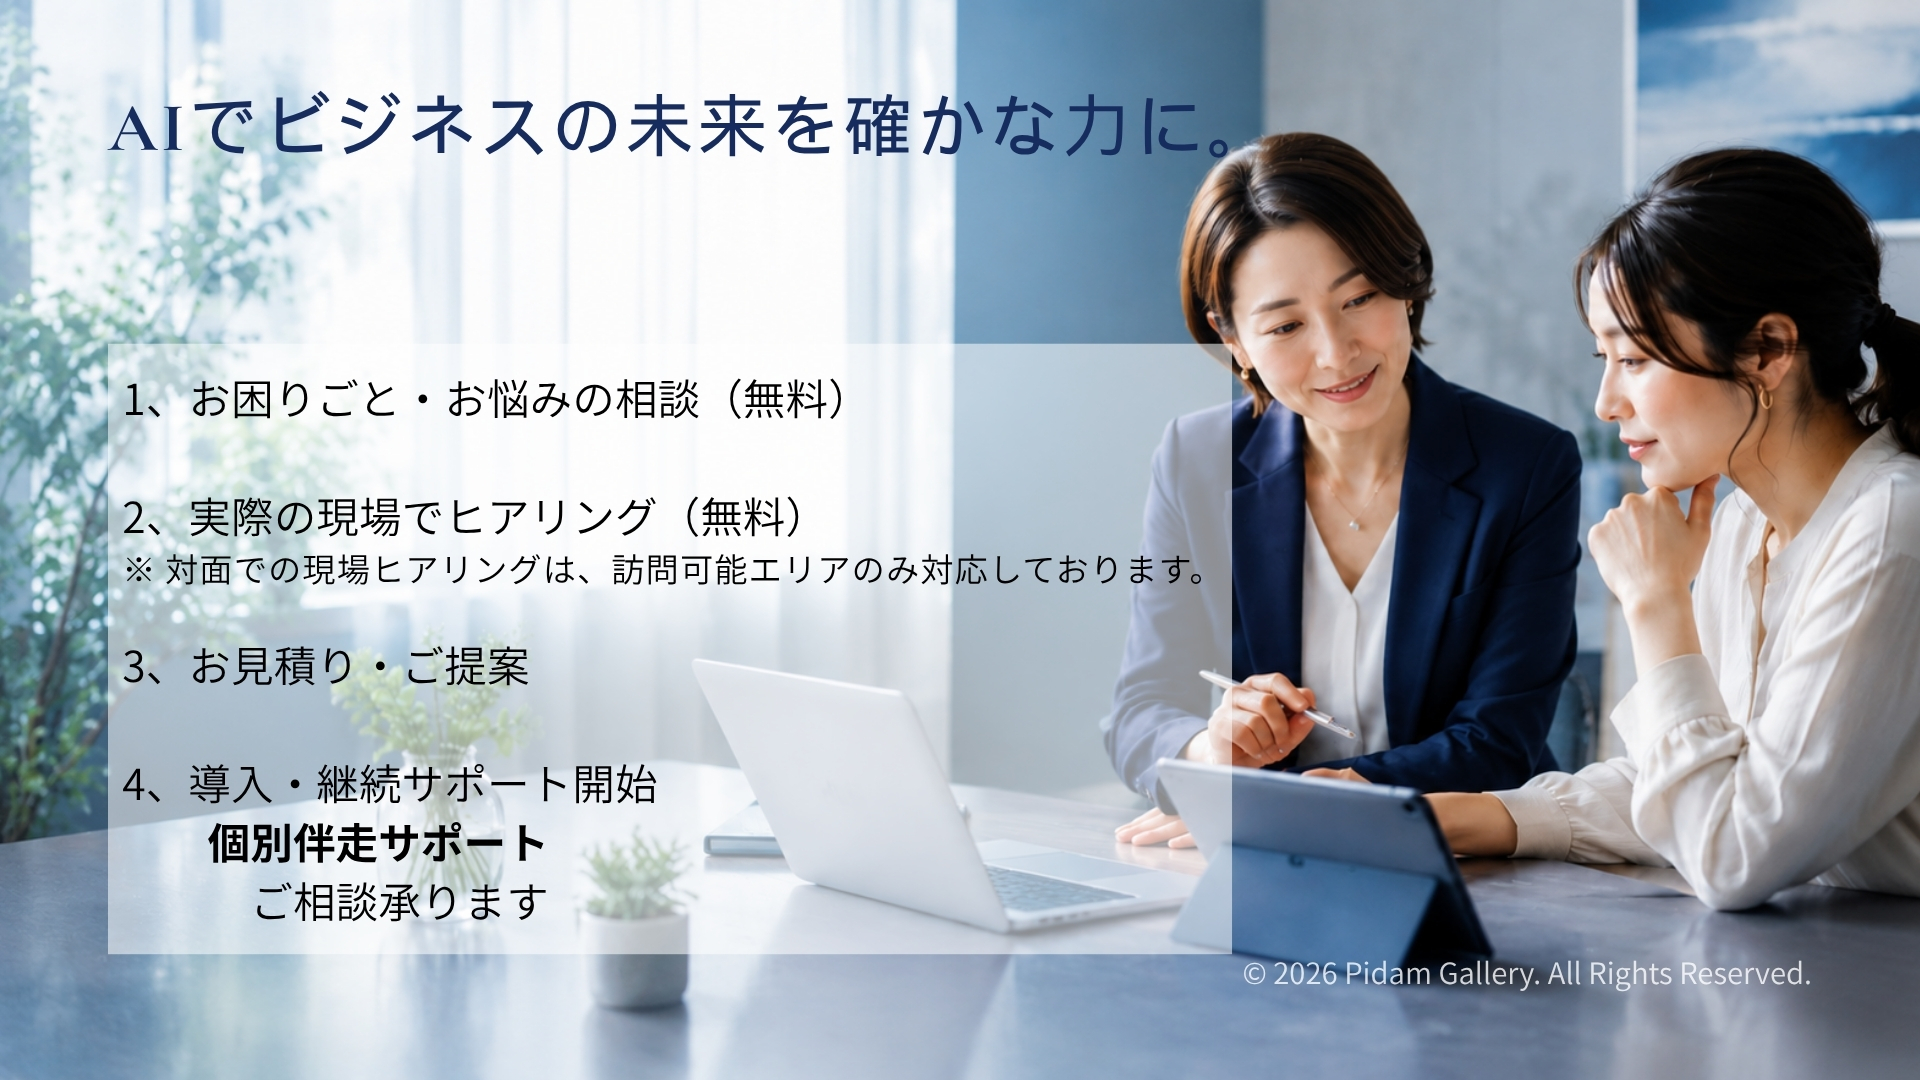
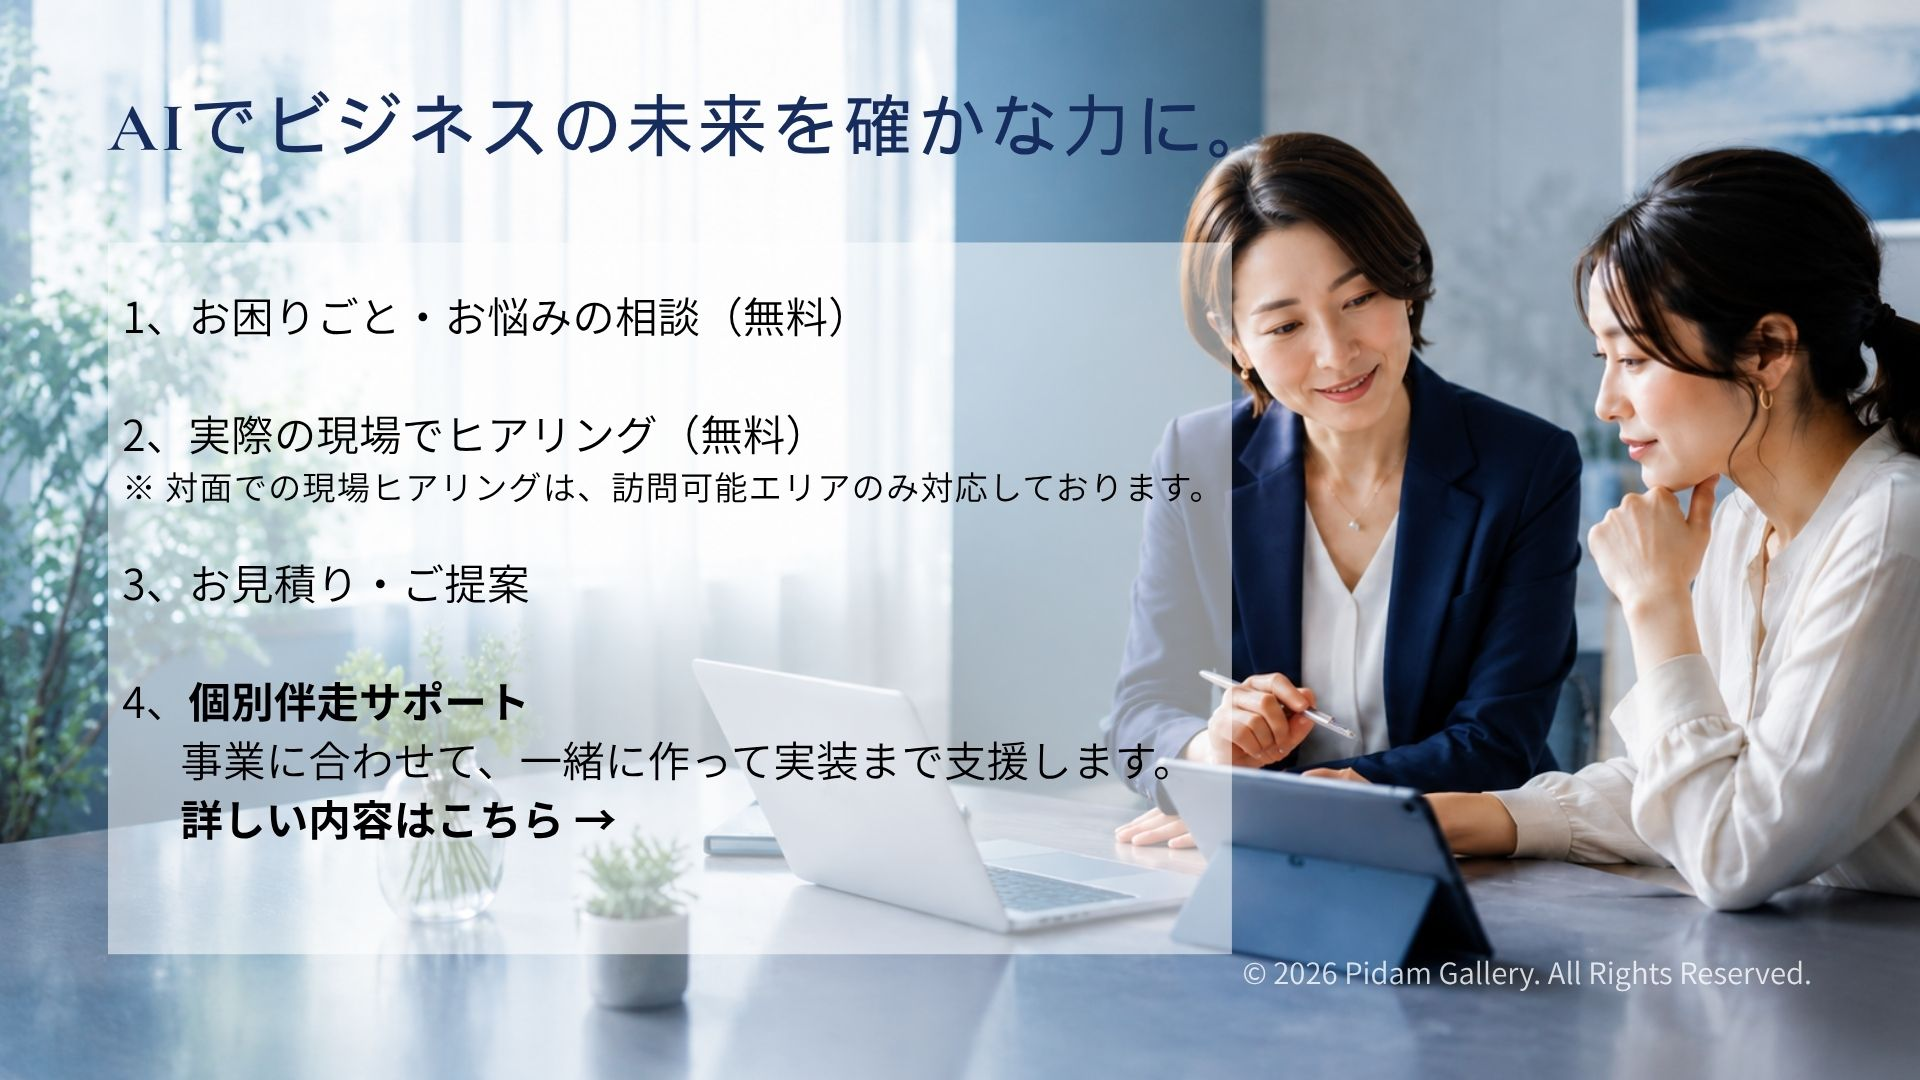
Update AI support service pages

Changed region(s): [[0.0312, 0.2139, 0.6562, 0.8556]]

diff --git a/support.html b/support.html
@@ -47,21 +47,47 @@
     }
     .btn-qr:hover { background: rgba(255,255,255,0.08); }
 
-    /* その他サポート: 画像に既にボタン枠があるため透明リンク */
-    .btn-other {
+    .service-menu {
       position: absolute;
-      display: block;
-      cursor: pointer;
-      border-radius: 9999px;
-      /* デバッグ: background: rgba(255,0,0,0.3); */
+      left: 8.5%;
+      top: 25%;
+      z-index: 2;
+      width: 38%;
+      height: 65%;
+      padding: 1.1%;
+      display: flex;
+      flex-direction: column;
+      gap: 0.6vw;
+      background: #051440;
+      border-radius: 1.3vw;
     }
-    .btn-other:hover { background: rgba(255,255,255,0.08); }
+    .service-menu a {
+      flex: 1;
+      display: flex;
+      flex-direction: column;
+      align-items: center;
+      justify-content: center;
+      color: #fff;
+      border: 2px solid rgba(255,255,255,0.92);
+      border-radius: 9999px;
+      text-align: center;
+      text-decoration: none;
+      font-family: "Yu Gothic", "Hiragino Kaku Gothic ProN", sans-serif;
+    }
+    .service-menu a:hover { background: rgba(255,255,255,0.1); }
+    .service-menu strong {
+      font-size: clamp(0.75rem, 1.55vw, 1.4rem);
+      font-weight: 500;
+      line-height: 1.15;
+    }
+    .service-menu span {
+      margin-top: 0.2em;
+      font-size: clamp(0.7rem, 1.15vw, 1rem);
+      line-height: 1.15;
+    }
 
     /* ボタン位置 (%) */
-    .btn-beginner { left: 10%; top: 28%; width: 25%; height: 8%; }  /* 初心者向け講座 */
-    .btn-houjin   { left: 10%; top: 58%; width: 25%; height: 8%; }  /* 法人向けサポート */
-    .btn-other    { left: 10%; top: 82%; width: 25%; height: 8%; }  /* その他サポート */
-    .btn-qr       { left: 51%; top: 74%; width: 7%;  height: 13%; } /* QRコード */
+    .btn-qr { left: 51%; top: 74%; width: 7%; height: 13%; } /* QRコード */
 
     /* トップへ戻る */
     .back-btn {
@@ -89,19 +115,29 @@
 
   <a class="back-btn" href="index.html">← トップへ</a>
 
-  <div class="page-wrapper">
+  <div class="page-wrapper" id="contact">
     <img class="bg" src="images/support.jpg" alt="AI Support - Pidam Gallery">
 
     <div class="overlay">
 
-      <!-- 初心者向け講座 -->
-      <a class="btn-link btn-beginner" href="beginner.html" aria-label="初心者向け講座"></a>
-
-      <!-- 法人向けサポート -->
-      <a class="btn-link btn-houjin" href="company.html" aria-label="法人向けサポート"></a>
-
-      <!-- その他サポート: 新規ページへ -->
-      <a class="btn-other" href="other_support.html" aria-label="その他サポート"></a>
+      <nav class="service-menu" aria-label="AIサポートメニュー">
+        <a href="beginner.html">
+          <strong>AI初心者講座</strong>
+          <span>複数人で基本を学ぶ</span>
+        </a>
+        <a href="beginner.html">
+          <strong>はじめてのAIサポート</strong>
+          <span>1対1で相談・練習</span>
+        </a>
+        <a href="company.html">
+          <strong>個別伴走サポート</strong>
+          <span>一緒に作って実装する</span>
+        </a>
+        <a href="other_support.html">
+          <strong>その他サポート</strong>
+          <span>画像・名刺・LPなどの制作相談</span>
+        </a>
+      </nav>
 
       <!-- QRコード（LINE相談）: リンク先を href="" に入れる -->
       <a class="btn-qr" href="" target="_blank" aria-label="LINE相談はこちら"></a>

diff --git a/company.html b/company.html
@@ -26,6 +26,40 @@
       display: block;
     }
 
+    .image-link {
+      position: absolute;
+      z-index: 3;
+      display: block;
+    }
+    .consultation-link {
+      left: 27%;
+      top: 87%;
+      width: 46%;
+      height: 10%;
+      border-radius: 9999px;
+    }
+    .consultation-link:hover { background: rgba(255,255,255,0.12); }
+    .email-consultation {
+      display: block;
+      padding: 0.7rem 1rem;
+      background: #eef4fb;
+      color: #0e55ad;
+      font-family: "Yu Gothic", "Hiragino Kaku Gothic ProN", sans-serif;
+      font-size: clamp(0.78rem, 1.05vw, 1rem);
+      font-weight: 700;
+      text-align: center;
+      text-decoration: none;
+    }
+    .email-consultation:hover { text-decoration: underline; }
+    .intro-detail-link {
+      left: 8.5%;
+      top: 74%;
+      width: 26%;
+      height: 8%;
+    }
+    .intro-detail-link:hover { background: rgba(255,255,255,0.12); }
+    .full-image-link { inset: 0; }
+
     .back-btn {
       position: fixed;
       top: 1.2rem;
@@ -53,7 +87,8 @@
 
   <!-- 1枚目: company.jpg -->
   <div class="page-block">
-    <img class="bg" src="images/company.jpg" alt="法人向けサポート 1 - Pidam Gallery">
+    <img class="bg" src="images/company.jpg" alt="個別伴走サポート 導入 - Pidam Gallery">
+    <a class="image-link intro-detail-link" href="#individual-support" aria-label="個別伴走サポートの詳しい内容はこちら"></a>
   </div>
 
   <!-- 2枚目: company2.jpg -->
@@ -62,8 +97,21 @@
   </div>
 
   <!-- 3枚目: company3.jpg -->
+  <div class="page-block" id="individual-support">
+    <img class="bg" src="images/company3.jpg" alt="個別伴走サポート 詳細・料金・比較表 - Pidam Gallery">
+    <a class="image-link consultation-link" href="#company-contact" aria-label="個別伴走サポートのお問い合わせはこちら"></a>
+  </div>
+  <a class="email-consultation" href="mailto:soyopin@kcn.jp">メールでのご相談はこちら</a>
+
+  <!-- 4枚目: company4.jpg -->
+  <div class="page-block" id="company-contact">
+    <img class="bg" src="images/company4.jpg" alt="個別伴走サポート こんなお悩みありませんか - Pidam Gallery">
+  </div>
+
+  <!-- 5枚目: その他サポート -->
   <div class="page-block">
-    <img class="bg" src="images/company3.jpg" alt="法人向けサポート 3 - Pidam Gallery">
+    <img class="bg" src="images/other_support.jpg" alt="その他サポート - Pidam Gallery">
+    <a class="image-link full-image-link" href="other_support.html" aria-label="その他サポートのページを見る"></a>
   </div>
 
 </body>

diff --git a/beginner.html b/beginner.html
@@ -3,7 +3,7 @@
 <head>
   <meta charset="UTF-8">
   <meta name="viewport" content="width=device-width, initial-scale=1.0">
-  <title>初心者向け講座 | Pidam Gallery</title>
+  <title>AI初心者講座・はじめてのAIサポート | Pidam Gallery</title>
   <style>
     * { margin: 0; padding: 0; box-sizing: border-box; }
     html, body { width: 100%; background: #0a0d1a; }
@@ -53,7 +53,7 @@
 
   <!-- 1枚目: beginner.jpg -->
   <div class="page-block">
-    <img class="bg" src="images/beginner.jpg" alt="初心者向け講座 1 - Pidam Gallery">
+    <img class="bg" src="images/beginner.jpg" alt="AI初心者講座とはじめてのAIサポート - Pidam Gallery">
   </div>
 
   <!-- 2枚目: beginner2.jpg -->
